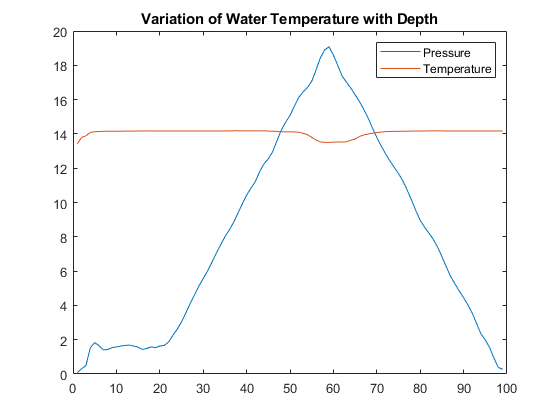
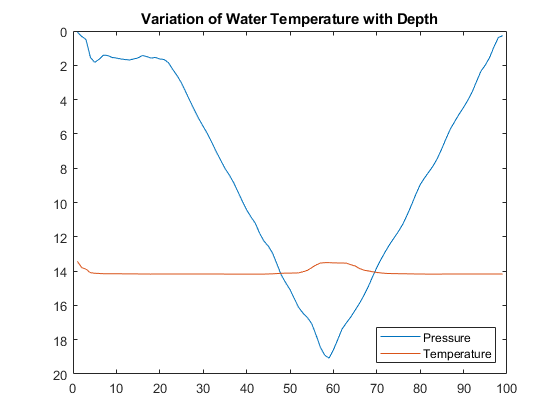
Modified according to feedback

diff --git a/README.md b/README.md
@@ -1126,7 +1126,9 @@ plot(1:data_count, T_first.Pressure)
 hold on % Retain current plot when adding new plots
 plot(1:data_count, T_first.Temperature)
 legend('Pressure','Temperature') % Adds legend to figure
+legend('Location','southeast') % Moves lend to specific location with respect to axes
 title('Variation of Water Temperature with Depth') % Adds title to figure
+set(gca, 'Ydir', 'reverse') % Reverse the orientation of Y-Axis
 hold off % Stops retaining current plot
 ```
 
@@ -1247,7 +1249,7 @@ colorbar % Shows color scale using a colorbar
 
 ### Plotting Longitudes - Latitudes on Maps
 
-The following example visualizes the locations of post offices in Tallinn, Estonia.
+The following example visualizes locations in Tallinn, Estonia.
 
 ```matlab
 %% Clearing previous session
@@ -1256,7 +1258,7 @@ clear % Remove all variables from workspace
 close all % Closes all figures
 
 %% Importing CSV file
-csv_file = 'data_files\baltic_post_office_locations.csv'; % CSV file path
+csv_file = 'data_files\baltic_locations.csv'; % CSV file path
 csv_data = readtable(csv_file); % Creates table from CSV file
 
 %% Selecting specific columns from MATLAB table
